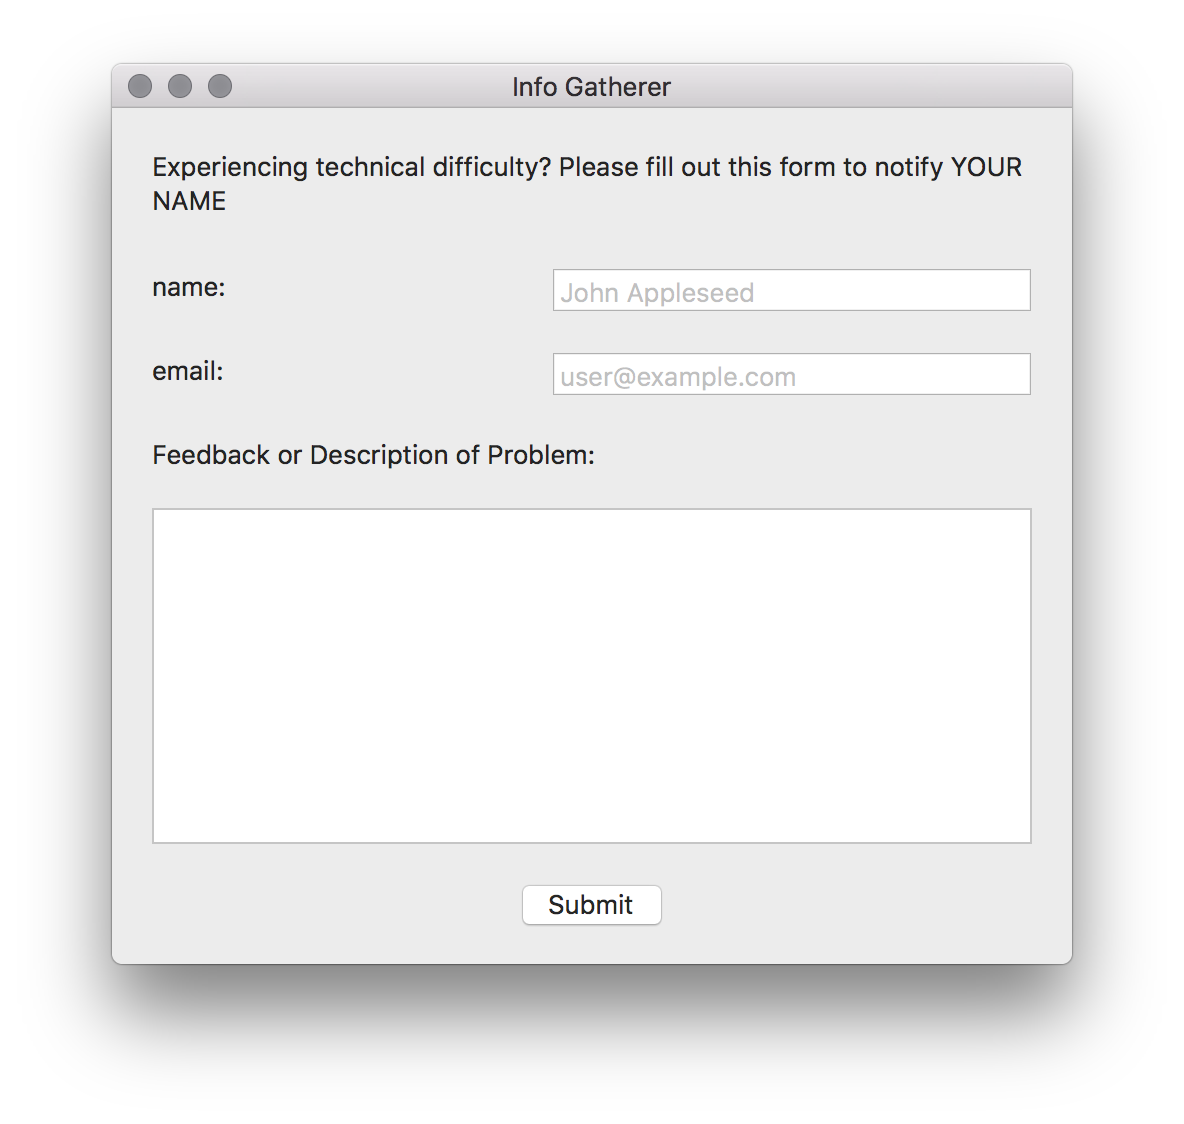
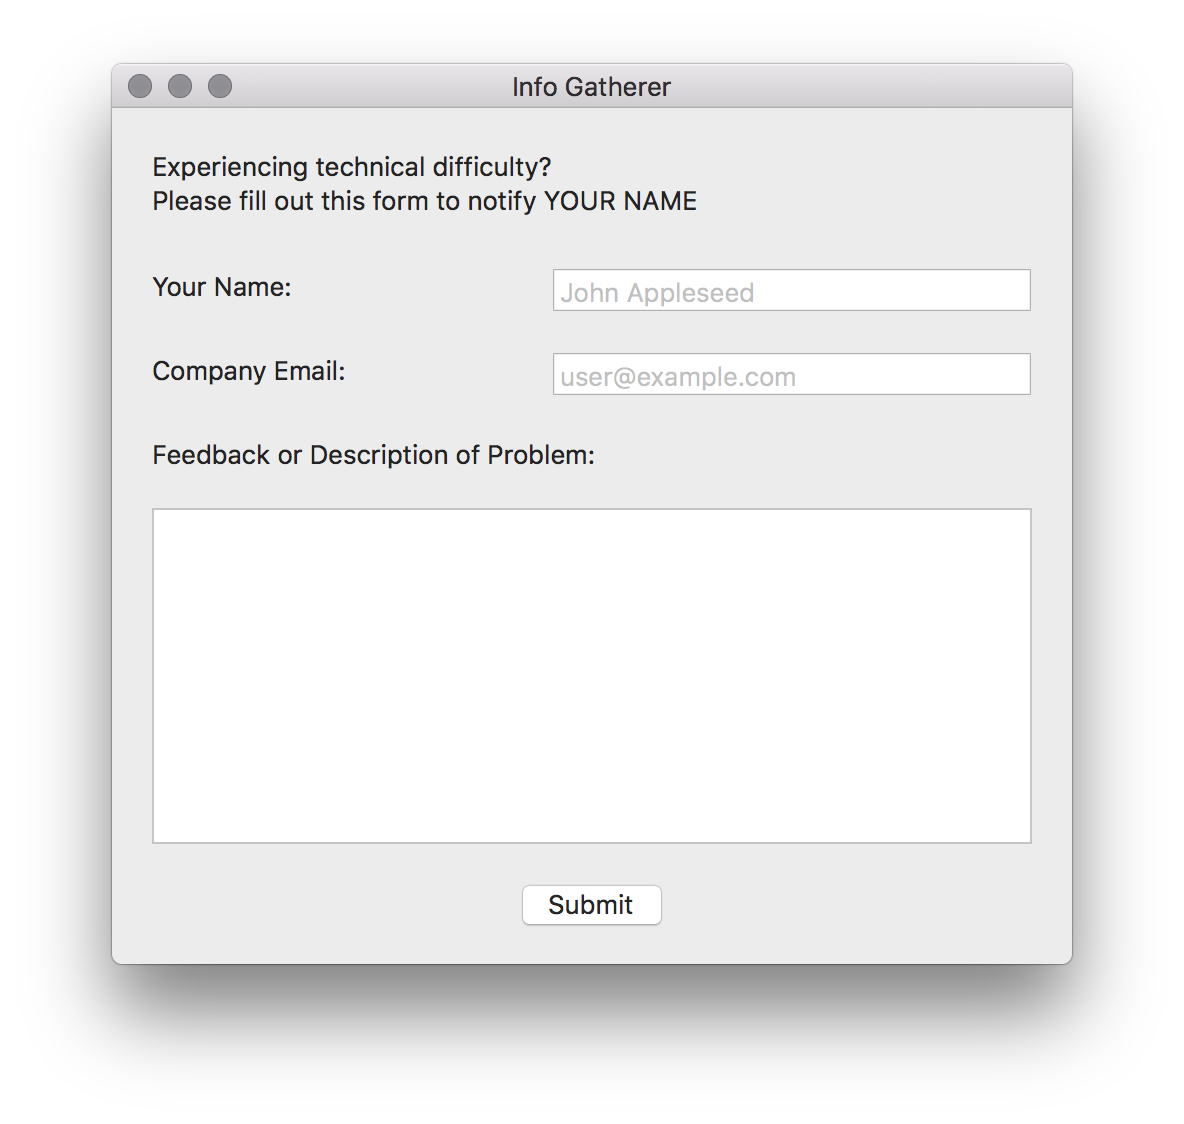
Change Copy

Changed region(s): [[0.125, 0.1246, 0.875, 0.1868], [0.125, 0.3114, 0.2812, 0.3425], [0.125, 0.2491, 0.25, 0.2802]]

diff --git a/Info Gatherer/AppDelegate.swift b/Info Gatherer/AppDelegate.swift
@@ -39,7 +39,7 @@ class AppDelegate: NSObject, NSApplicationDelegate {
          * Description for the top of the app
          * @type {String}
          */
-        static let description = "Experiencing technical difficulty? Please fill out this form to notify " + Config.name + ""
+        static let description = "Experiencing technical difficulty?\nPlease fill out this form to notify " + Config.name + ""
 
         /**
          * All input fields
@@ -49,11 +49,11 @@ class AppDelegate: NSObject, NSApplicationDelegate {
          */
         struct fields {
             struct name {
-                static let label = "name:"
+                static let label = "Your Name:"
                 static let placeholder = "John Appleseed"
             }
             struct email {
-                static let label = "email:"
+                static let label = "Company Email:"
                 static let placeholder = "user@example.com"
             }
             struct comments {
